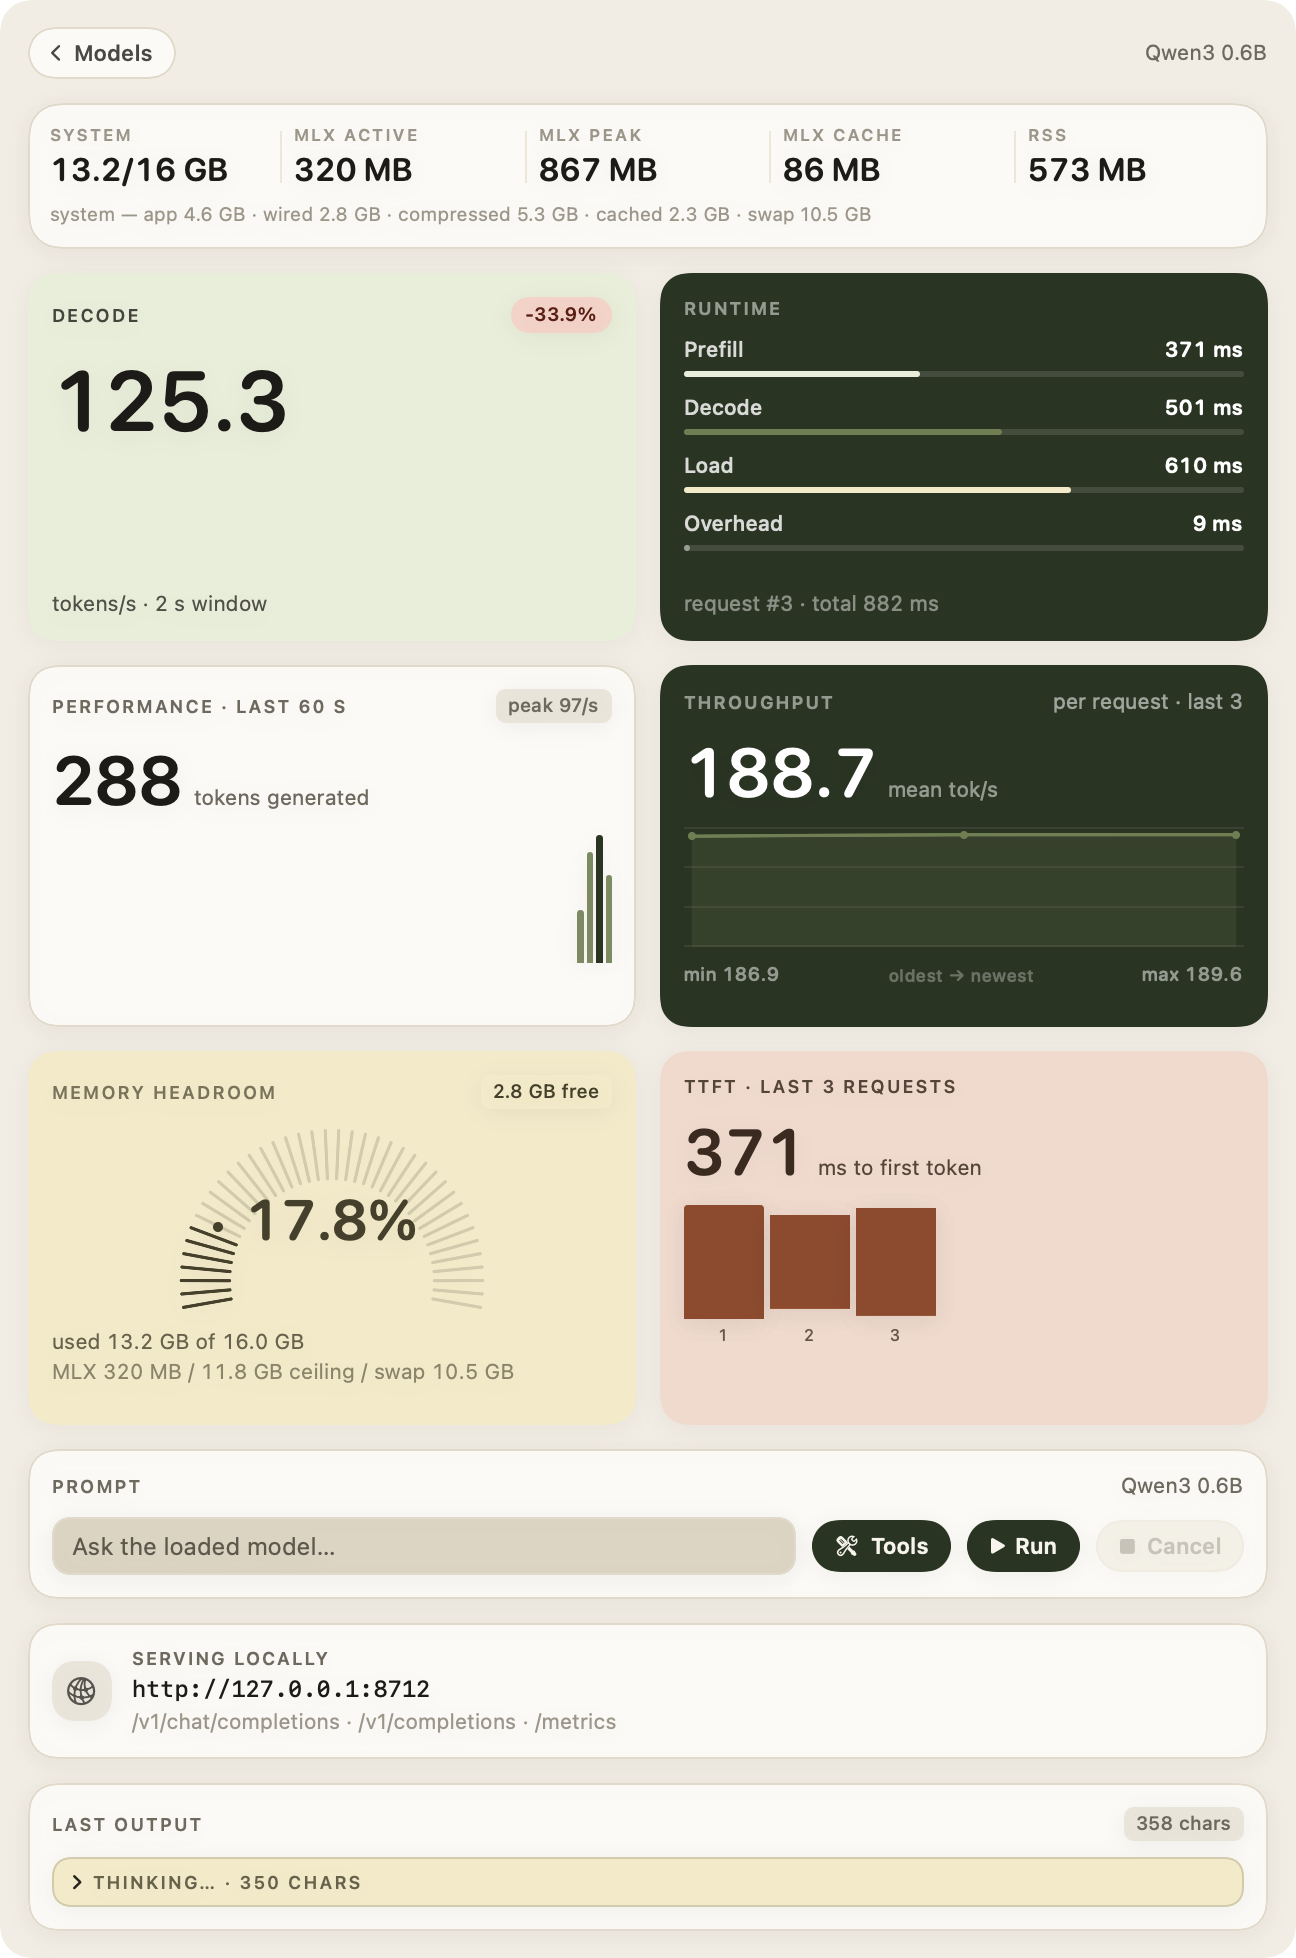
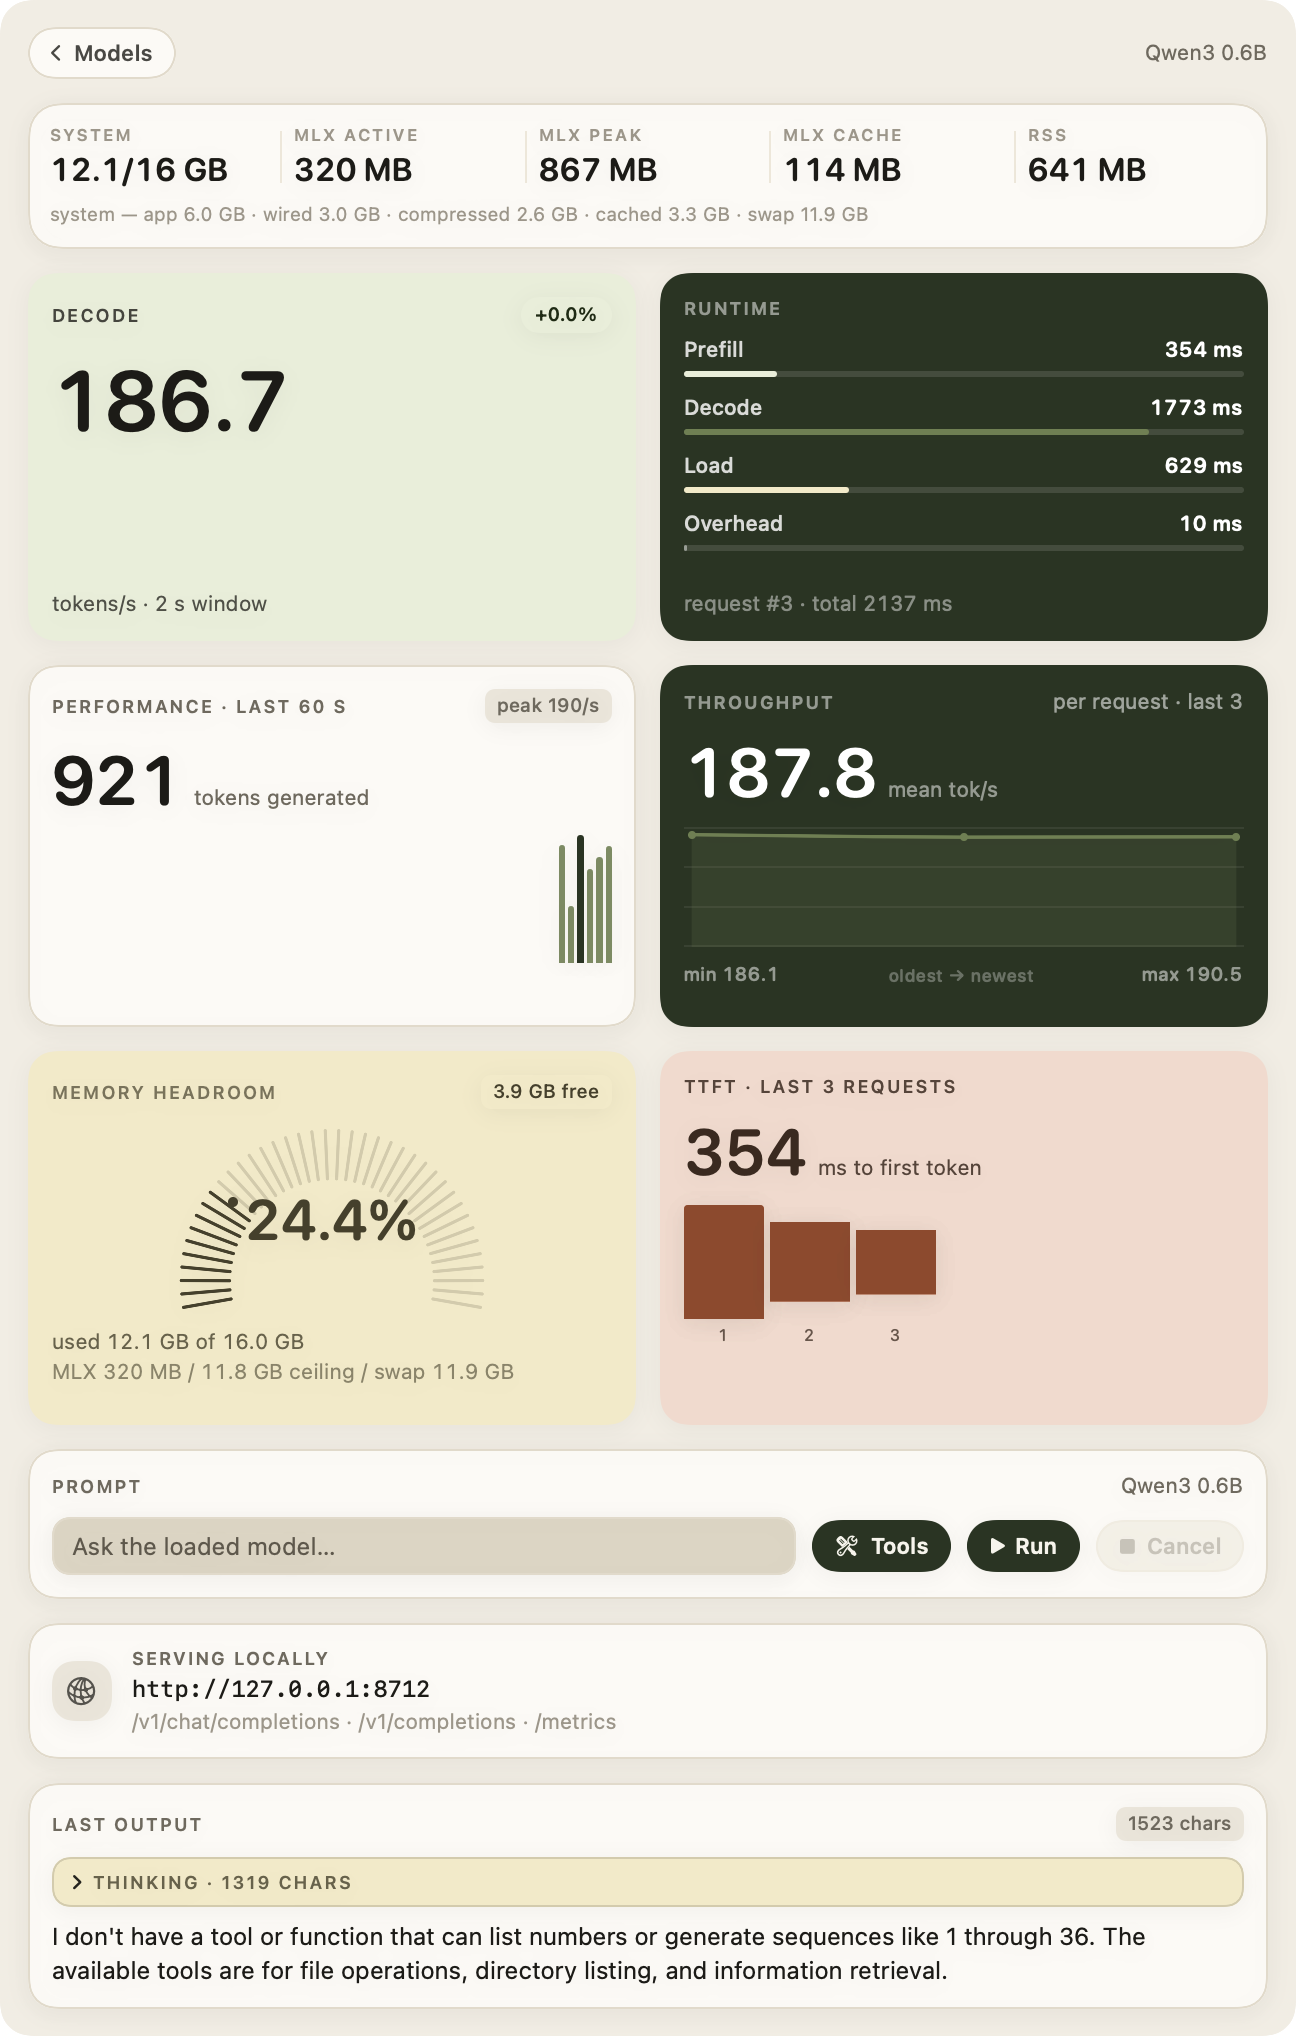
app: say when a run was cut off, and stop truncating the docs capture
- The output card carries a "stopped at the limit" pill and a sentence when the
  newest request ended at a limit rather than finishing. A small model can spend an
  entire budget reasoning and produce no answer, and that has to read as a fact
  about the run rather than as a request still in flight.
- `build.sh capture` gives the analytics runs a budget they finish inside, so the
  README's screenshot is not a truncated run.

diff --git a/Sources/SlamLM/AnalyticsView.swift b/Sources/SlamLM/AnalyticsView.swift
@@ -79,7 +79,11 @@ struct AnalyticsView: View {
             if let url = metrics.servingURL {
                 EndpointCard(url: url)
             }
-            LastOutputCard(text: metrics.streamText, toolEvents: metrics.toolEvents)
+            LastOutputCard(
+                text: metrics.streamText,
+                toolEvents: metrics.toolEvents,
+                stoppedAtLimit: metrics.requests.first?.finishReason == "length"
+            )
         }
         .padding(.horizontal, AnalyticsLayout.contentPadding)
         .padding(.vertical, AnalyticsLayout.contentPadding)
@@ -749,6 +753,11 @@ private struct LastOutputCard: View {
     let text: String
     /// Tool calls and results for the request that produced this output.
     let toolEvents: [ToolEvent]
+    /// The newest request stopped at a limit rather than finishing on its own.
+    /// A model can spend an entire budget reasoning and produce no answer at
+    /// all; saying so is the difference between "still working" and "it is not
+    /// going to answer".
+    let stoppedAtLimit: Bool
 
     var body: some View {
         PaperCard(fill: Paper.card) {
@@ -756,6 +765,9 @@ private struct LastOutputCard: View {
                 HStack(spacing: 6) {
                     SectionLabel(text: "Last output")
                     Spacer(minLength: 4)
+                    if stoppedAtLimit {
+                        TagPill(text: "stopped at the limit", fill: Paper.washClay, ink: Paper.clayInk)
+                    }
                     if !text.isEmpty {
                         TagPill(text: "\(text.count) chars")
                     }
@@ -764,6 +776,12 @@ private struct LastOutputCard: View {
                     EmptyState(symbol: "text.alignleft", title: "No output yet",
                                detail: "Tokens streamed for the most recent request appear here.")
                 } else {
+                    if stoppedAtLimit {
+                        Text("The model ran out of room before it answered: the per-round token limit, or the tool rounds. What it produced is below.")
+                            .font(PaperFont.meta)
+                            .foregroundStyle(Paper.clayInk)
+                            .fixedSize(horizontal: false, vertical: true)
+                    }
                     ToolTrace(events: toolEvents)
                     MarkdownText(raw: text)
                         .frame(maxWidth: .infinity, alignment: .leading)

diff --git a/README.md b/README.md
@@ -70,9 +70,10 @@ behind a disclosure, so the answer is the thing you read.
   explore your files before answering, and the panel shows every call it made. There is
   no write, edit, move, delete or shell tool, and file access is confined to the root in
   `SLAM_LM_TOOL_ROOT` (your home directory by default).
-- **No token budget to set** — a request runs until the model stops on its own. The only
-  ceiling is the model's context window, so answers are not truncated mid-sentence by a
-  number you have to remember to raise.
+- **No token budget to set** — a request runs until the model stops on its own, so
+  answers are not truncated by a number you have to remember to raise. A 2048-token
+  safeguard per round stops a model that never emits its stop token from generating
+  for minutes and pushing the machine into swap; `SLAM_LM_MAX_TOKENS` changes it.
 - **Chat templating** — prompts go through the model's own chat template, the same path
   the HTTP endpoint uses.
 - **Keyboard and VoiceOver friendly** — every control is labelled; `⌘K` focuses search.
